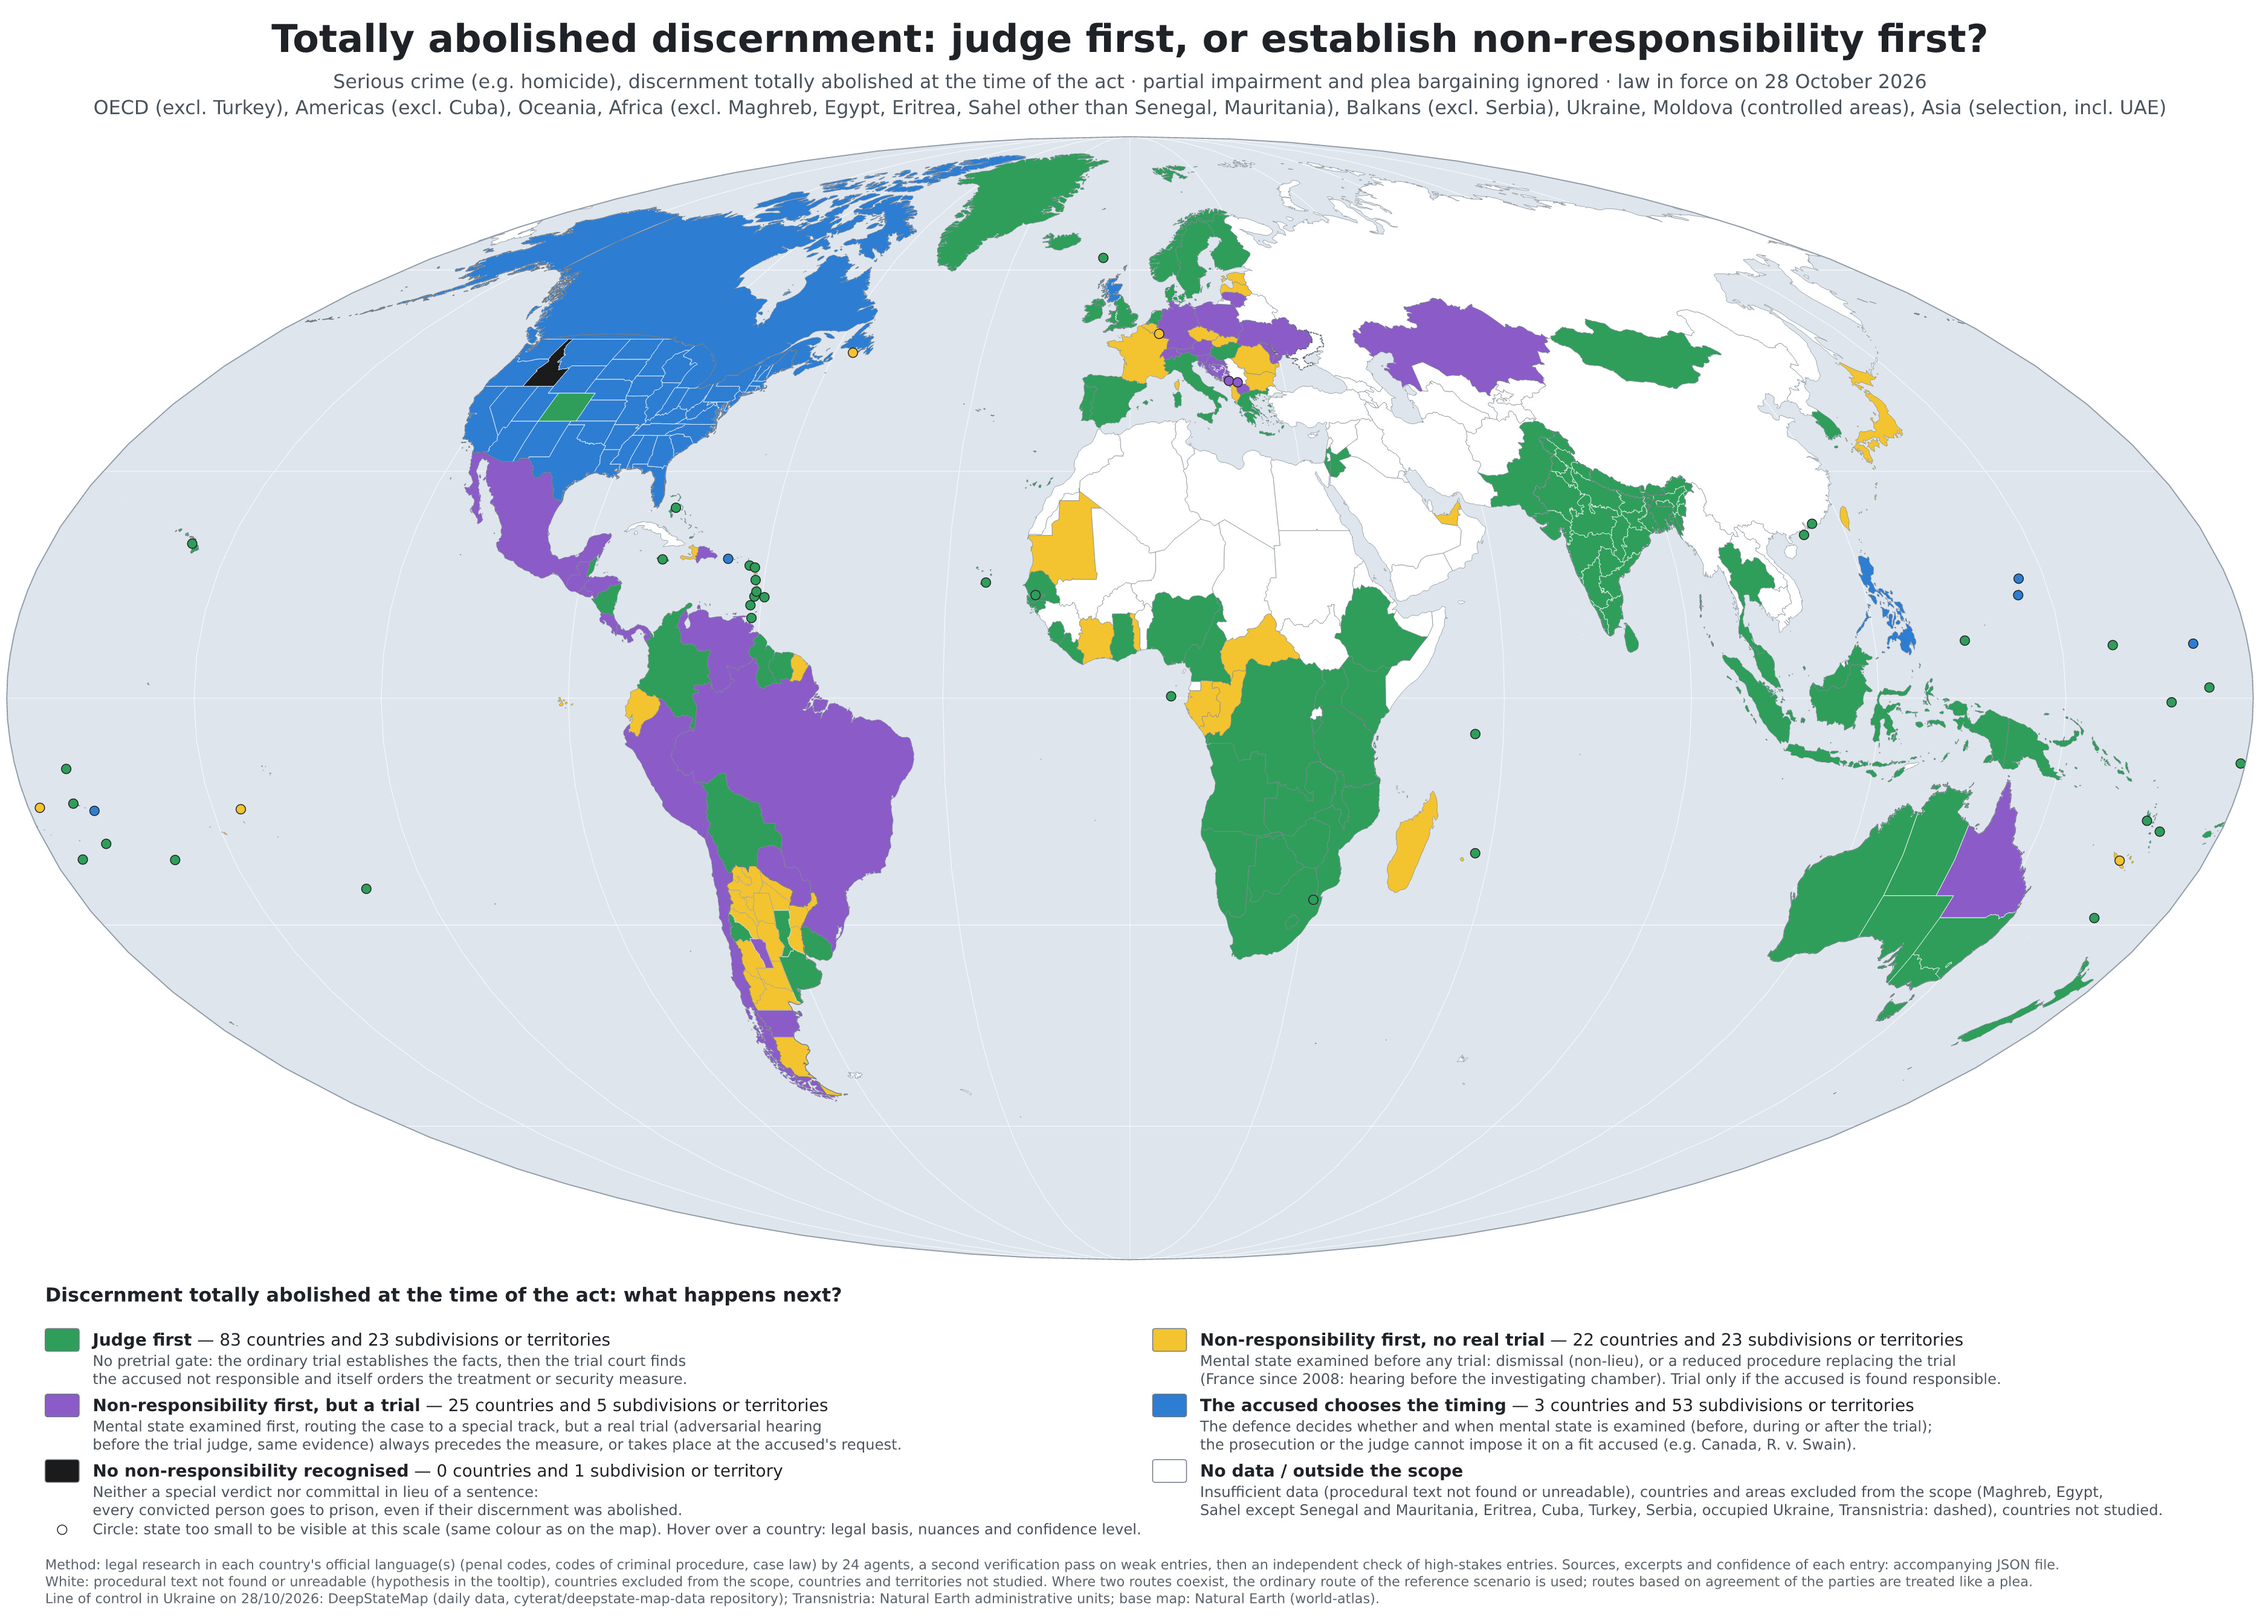
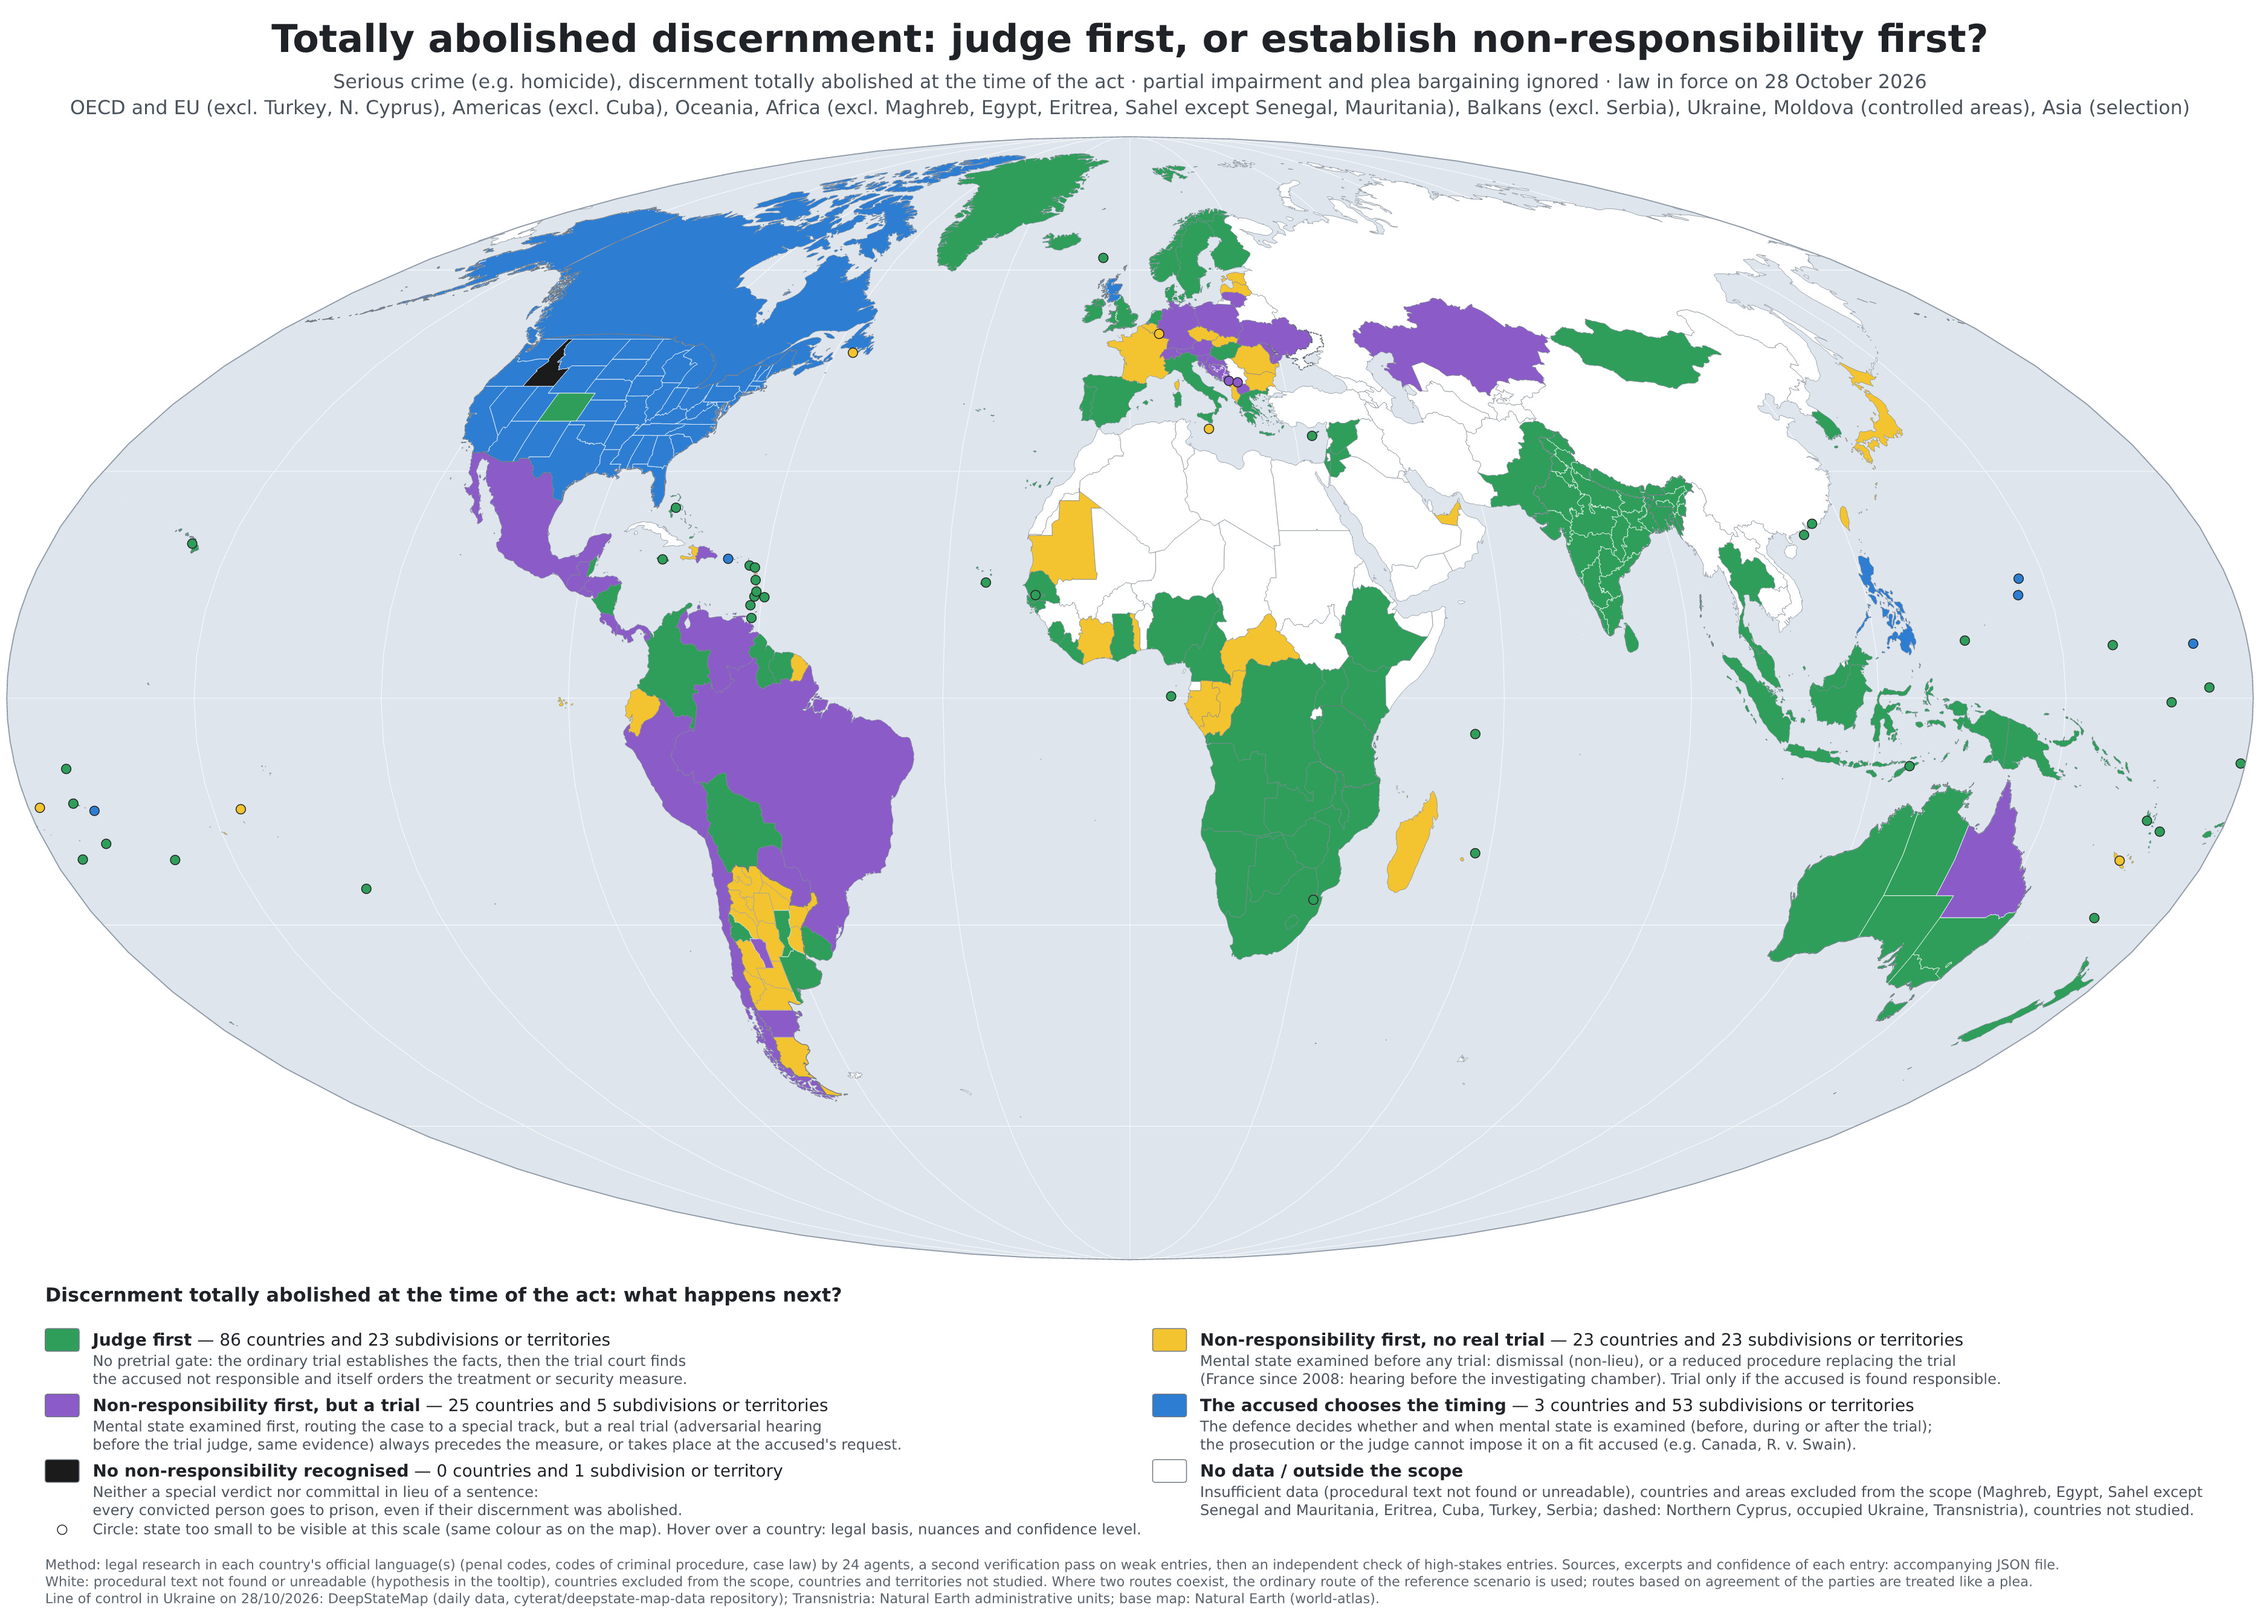
Add Cyprus, Malta, Timor-Leste and Syria; Northern Cyprus excluded like Turkey
- Cyprus: green (Cap. 155 art. 70: acquittal for mental disorder only after trial)
- Malta: yellow (Criminal Code art. 402: custody order during the compilation of evidence, special jury only if contested)
- Timor-Leste: green (no special procedure; trial court finds inimputabilidade)
- Syria: green (Court of Cassation 1985: no dismissal for insanity before trial)
- Northern Cyprus: excluded, under Turkish control, drawn white with dashes
- Map, legend counts and README updated

Claude-Session: https://claude.ai/code/session_01C8wuSvmA6iqUz3Janqs4PB

diff --git a/README.md b/README.md
@@ -17,8 +17,8 @@ the rule, its legal basis, nuances and the confidence level.
 
 | Colour | Meaning | Countries | Subdivisions or territories |
 |---|---|---:|---:|
-| Green | **Judge first**: no pretrial gate; the ordinary trial establishes the facts, then the trial court finds the accused not responsible and orders the measure itself. | 83 | 23 |
-| Yellow | **Non-responsibility first, no real trial**: mental state examined before any trial; dismissal, or a reduced procedure replacing the trial (e.g. France since 2008). | 22 | 23 |
+| Green | **Judge first**: no pretrial gate; the ordinary trial establishes the facts, then the trial court finds the accused not responsible and orders the measure itself. | 86 | 23 |
+| Yellow | **Non-responsibility first, no real trial**: mental state examined before any trial; dismissal, or a reduced procedure replacing the trial (e.g. France since 2008). | 23 | 23 |
 | Purple | **Non-responsibility first, but a trial**: special track, but a real trial always precedes the measure, or takes place at the accused's request. | 25 | 5 |
 | Blue | **The accused chooses the timing**: the defence decides whether and when mental state is examined (e.g. Canada, R. v. Swain). | 3 | 53 |
 | Black | **No non-responsibility recognised**: every convicted person goes to prison. | 0 | 1 |
@@ -29,9 +29,10 @@ bargaining are ignored; fitness to stand trial is described but never decides th
 split by unit when the rule is sub-national (United States, Australia, United Kingdom, Argentina, India/Kerala,
 Tanzania/Zanzibar, Bosnia and Herzegovina).
 
-**Scope.** OECD (except Turkey), the Americas (except Cuba), Oceania, Africa (except the Maghreb, Egypt,
-Eritrea and the Sahel other than Senegal and Mauritania), the Balkans (except Serbia), Ukraine and Moldova
-(government-controlled areas), and a selection of Asian countries including the United Arab Emirates. An
+**Scope.** OECD and EU countries (except Turkey, and Northern Cyprus, which is under Turkish control), the
+Americas (except Cuba), Oceania, Africa (except the Maghreb, Egypt, Eritrea and the Sahel other than Senegal
+and Mauritania), the Balkans (except Serbia), Ukraine and Moldova (government-controlled areas), and a
+selection of Asian countries including Syria, Timor-Leste and the United Arab Emirates. An
 authoritarian regime is not excluded as such: what matters is whether, in ordinary criminal cases, the law on
 the rights of the defence is still followed (corruption aside). Where the lack of rule of law makes the law
 only a hint rather than a requirement, the jurisdiction is left out (see [CONTRIBUTING.md](CONTRIBUTING.md)).
@@ -44,7 +45,7 @@ unverified hypothesis when there is one. Contributions are especially welcome th
 
 | Path | Content |
 |---|---|
-| `data/insanity_procedure_map.json` | **The dataset** (English): 253 entries with facts, legal bases, a verbatim excerpt, notes, sources, confidence, history and independent checks; methodology, scope, field reference (`meta.schema`) and contribution rules. |
+| `data/insanity_procedure_map.json` | **The dataset** (English): 257 entries with facts, legal bases, a verbatim excerpt, notes, sources, confidence, history and independent checks; methodology, scope, field reference (`meta.schema`) and contribution rules. |
 | `maps/insanity_procedure_map.svg` / `.jpg` | English map: interactive SVG and 3740 × 2680 JPG (10 megapixels). |
 | `tools/` | Validation (`dataset.py`) and map generation (`build.sh`, Node.js + Python). |
 
